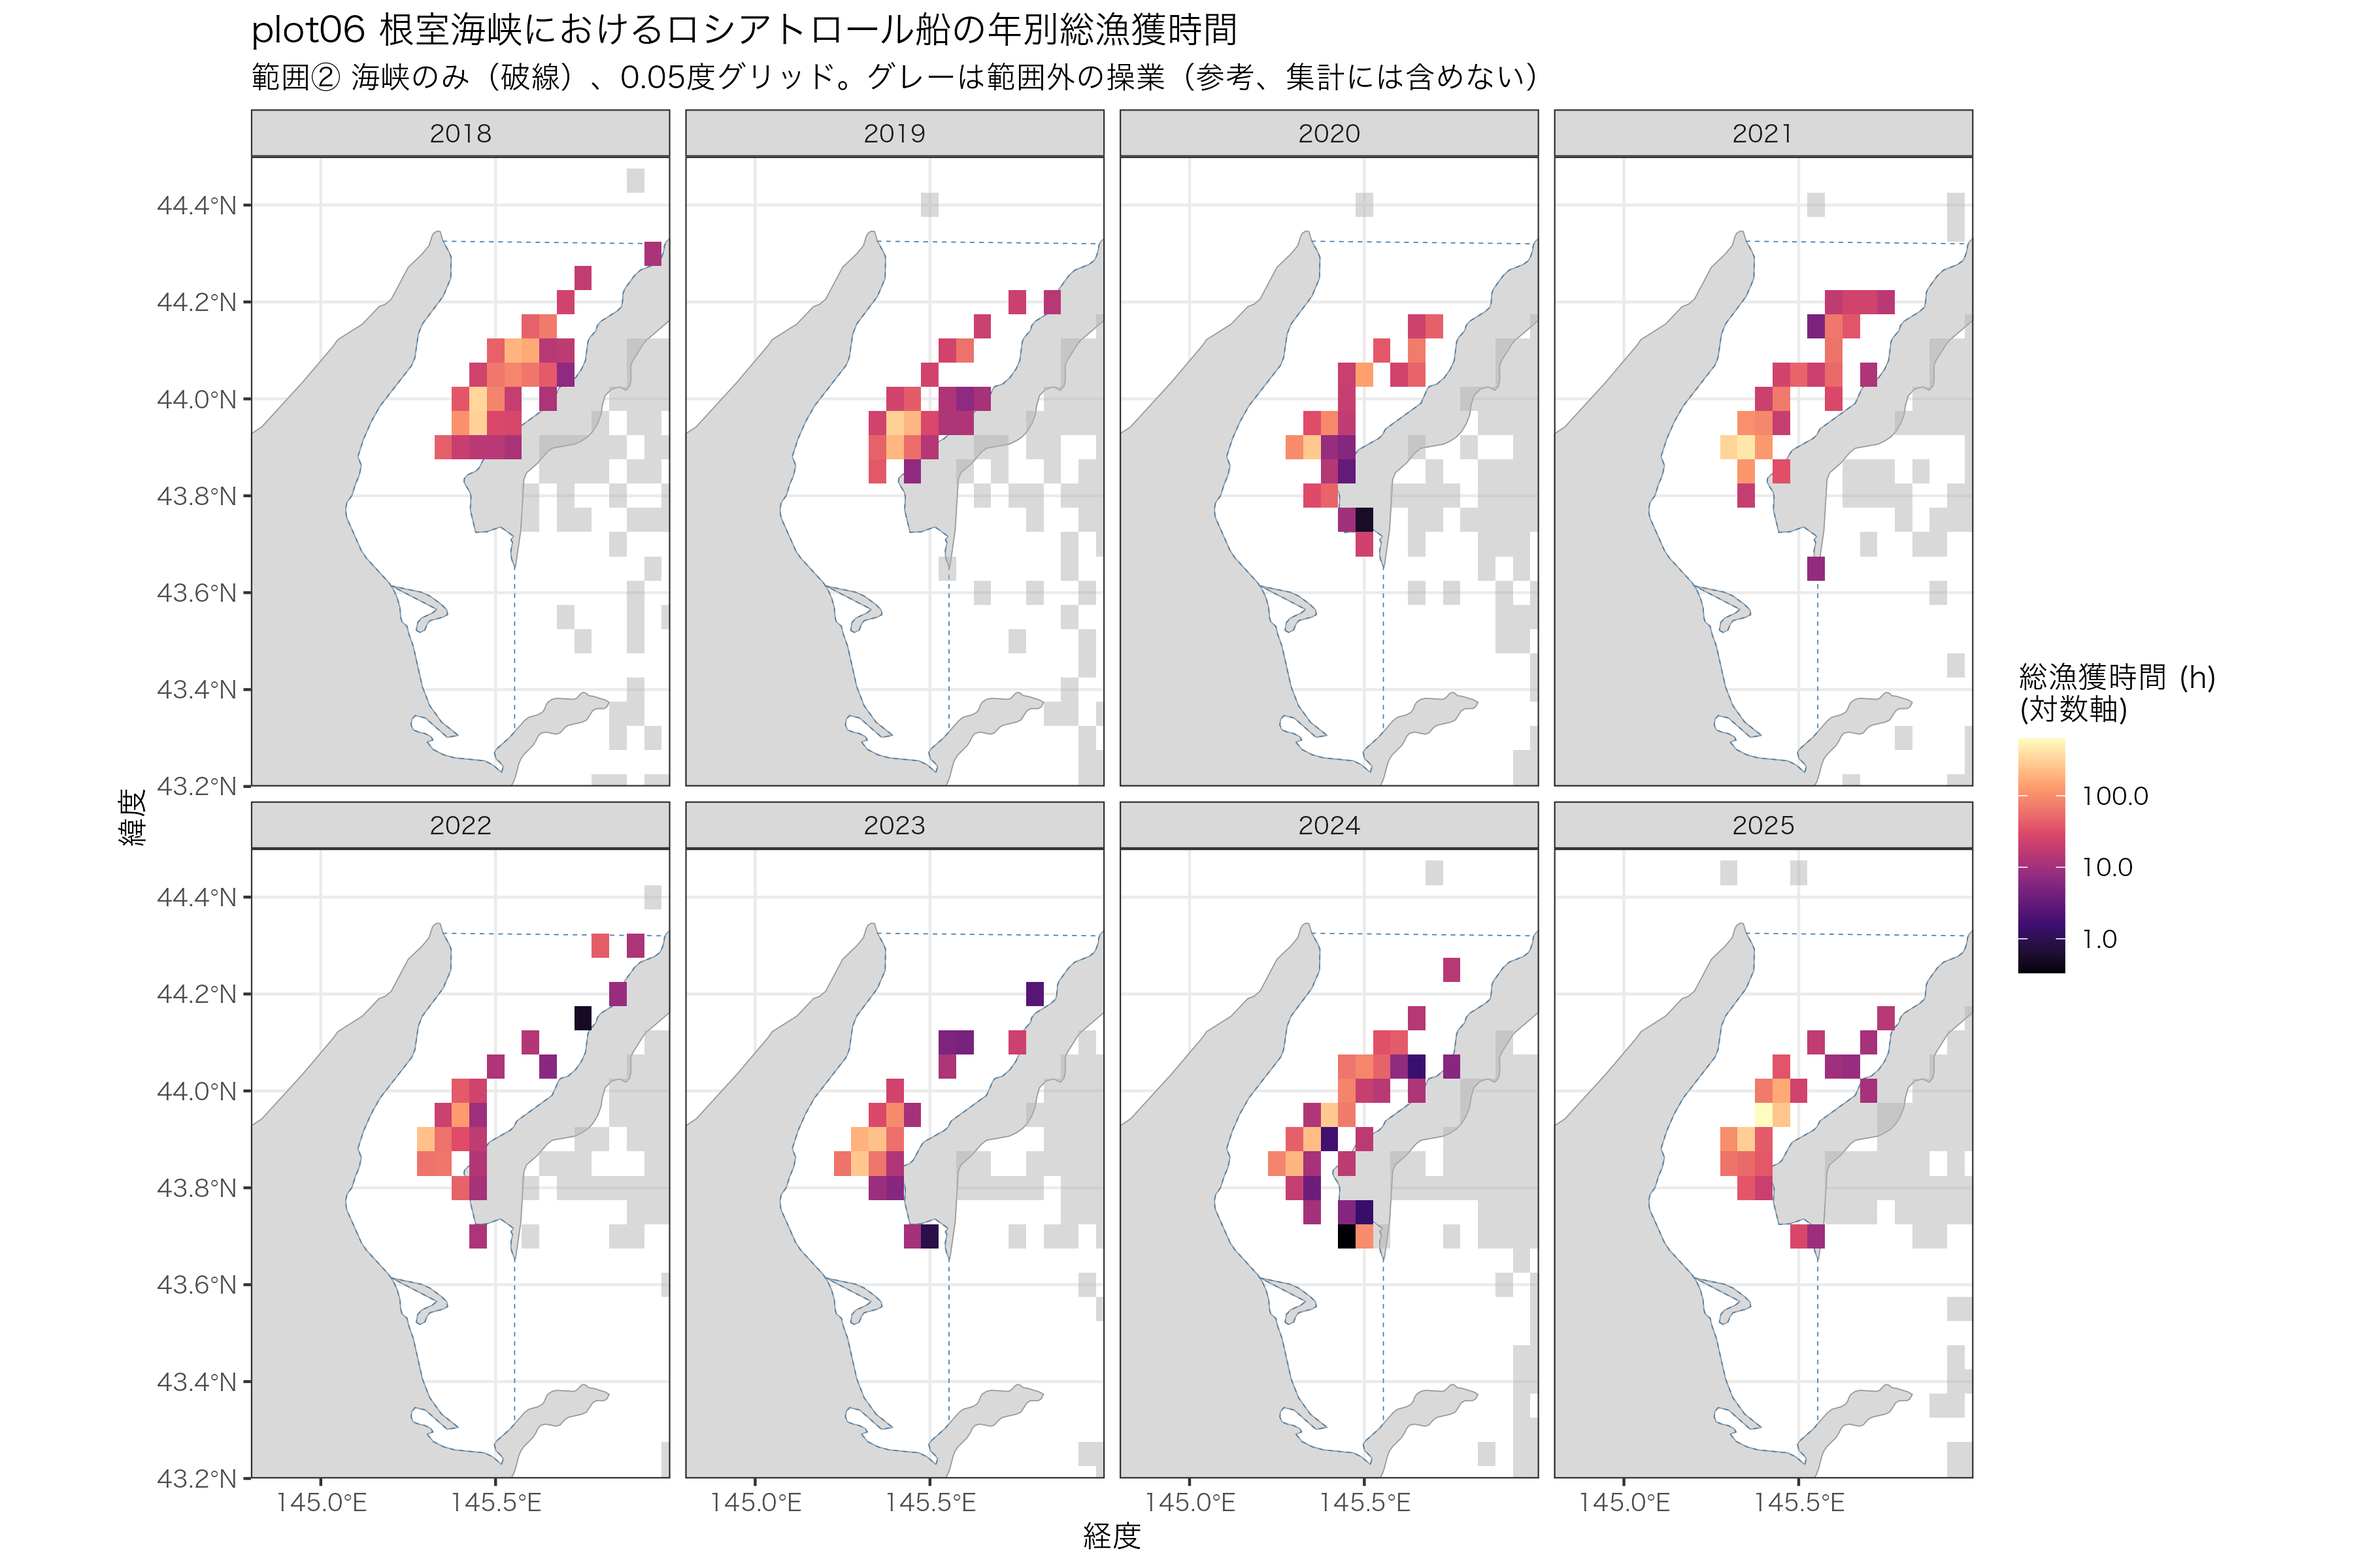
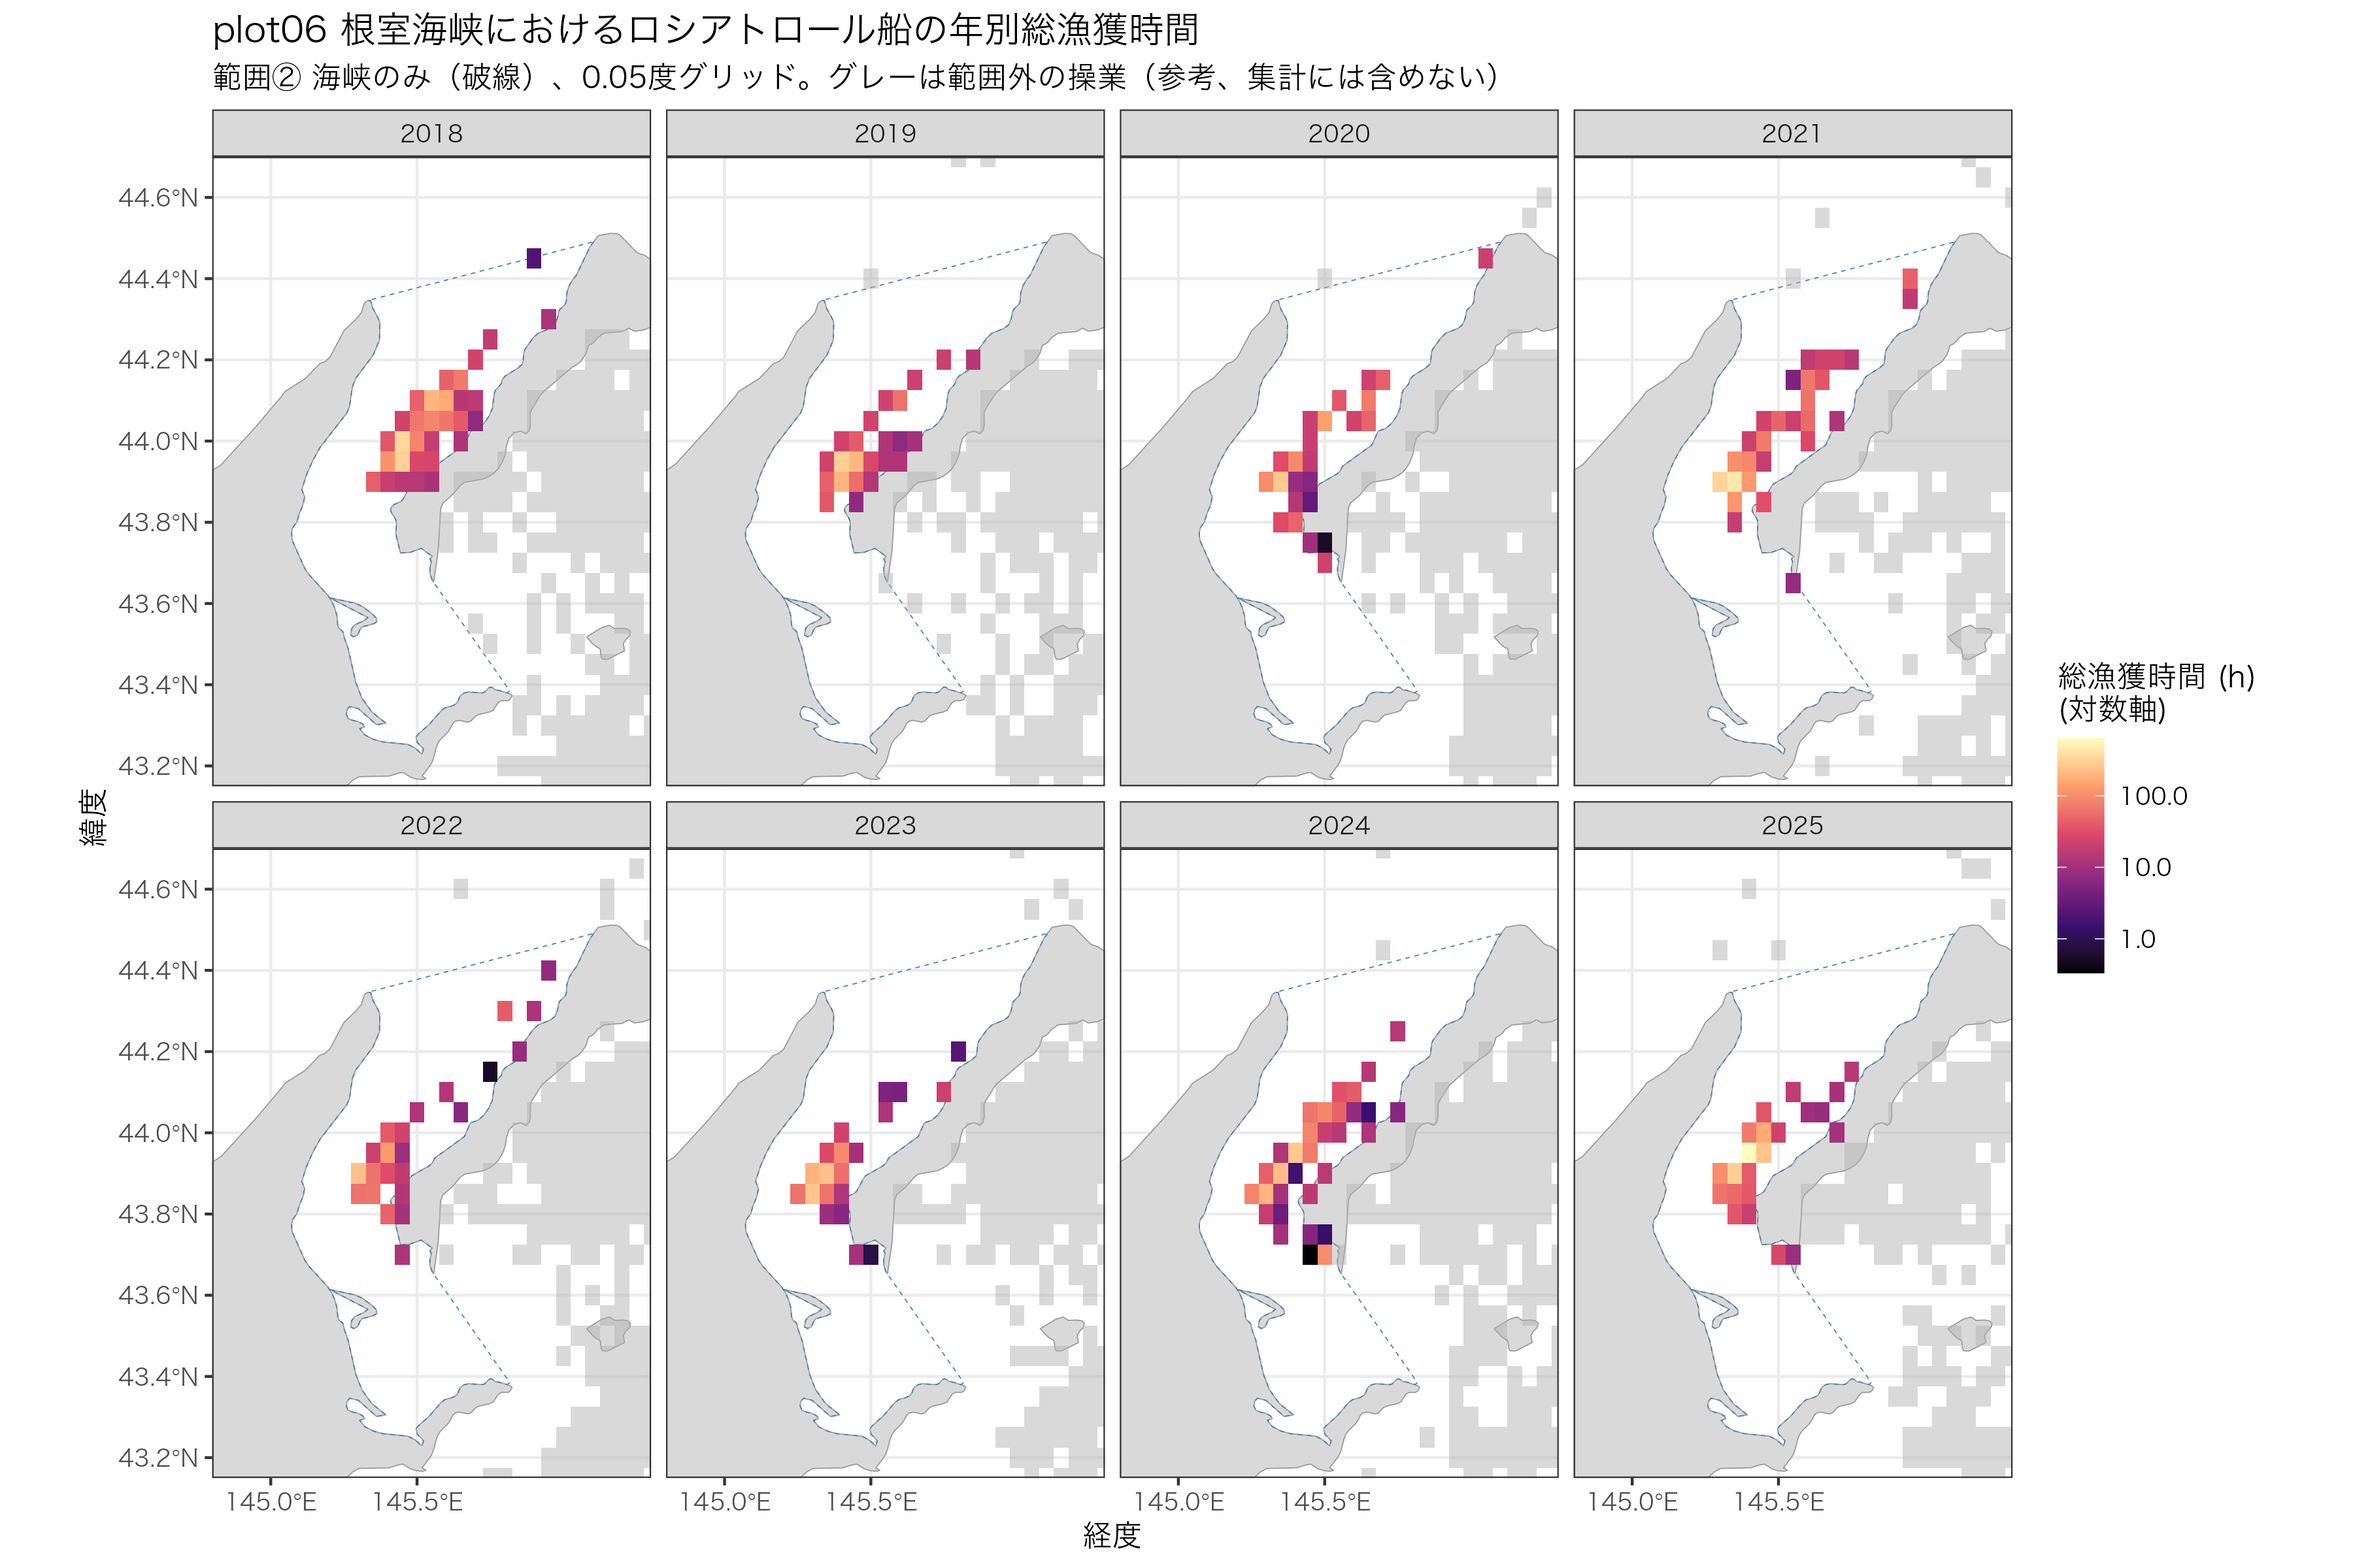
Redefine strait by its north and south mouths (Shiretoko-Ruruy, Keramui-Nosappu)

diff --git a/paper/sources.md b/paper/sources.md
@@ -18,6 +18,8 @@
 | 12 | ロシア大手企業が北方四島周辺・極東水域へスーパートロール船を投入、2028年までに4隻→11隻に拡大予定 | 二次情報（ブログ）のみで、一次資料が見つからない | **不採用** |
 | 13 | 日ロ地先沖合漁業交渉が2年連続で年内合意ならず（2025年12月） | NHK（URLが404になったので再確認が必要） | 未確認 |
 
+| 14 | 根室海峡の範囲：南口は納沙布岬–ケラムイ埼、北口は知床岬–ルルイ岬。全長約130km、最狭部は野付水道付近で国後島まで約17km。北口中央部の水深は2,400m超 | ユーザー提供の文章（**出典名を要確認**。海上保安庁の水路誌などか） | 出典要確認 |
+
 ## まだ欲しい出典
 - 羅臼・標津・別海の魚種別水揚げの年次データ（北海道水産現勢）
 - 根室海峡の日ロ中間ラインと、ロシアが主張する領海線の座標
